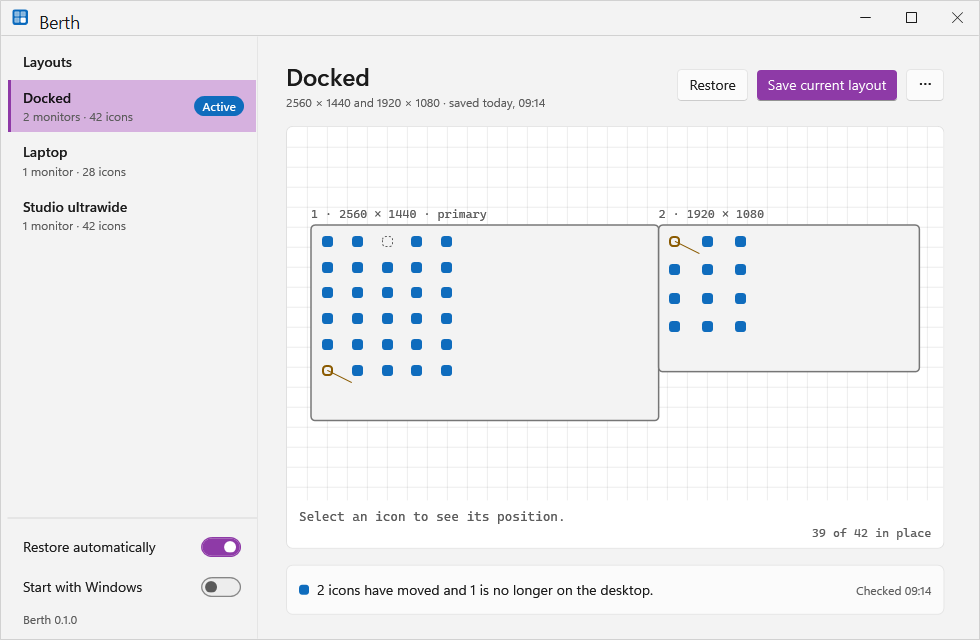
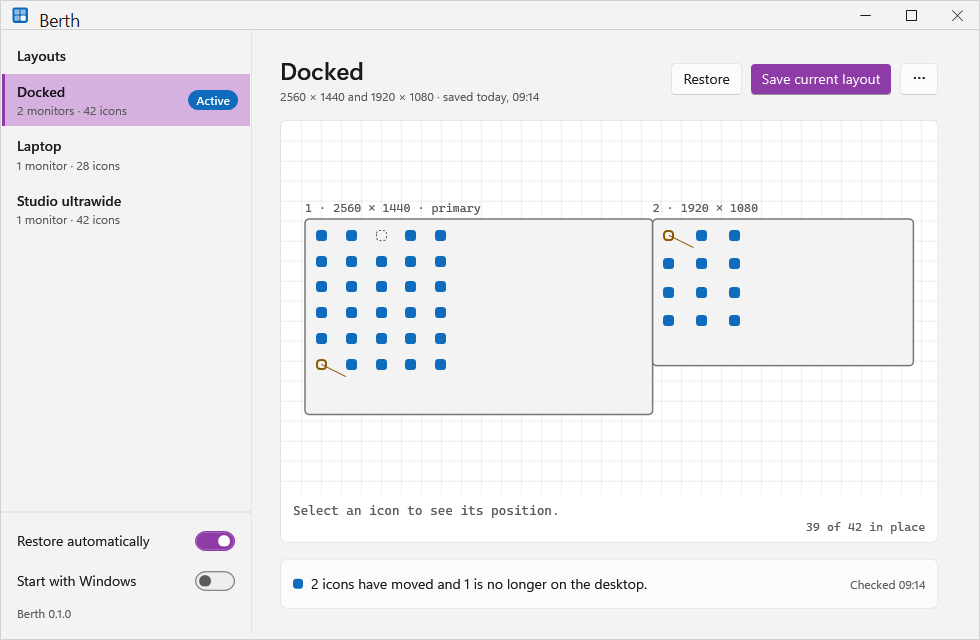
docs: replan D07 T01 s3 with measured ClientToScreen origin and D99 T01 s4 unlocked DWM capture

diff --git a/tests/Berth.Tests/Release/DocsRenderTests.cs b/tests/Berth.Tests/Release/DocsRenderTests.cs
@@ -168,13 +168,24 @@ public sealed class DocsRenderTests(AppFixture appFixture)
             window.Dispatcher.Invoke(() => { }, DispatcherPriority.Render);
             window.Dispatcher.Invoke(() => { }, DispatcherPriority.ContextIdle);
 
-            // Measure the live framed window's actual client and outer dimensions in DIPs.
+            // Measure the live framed window's actual client size and client origin relative to the visible outer frame.
             Assert.True(GetWindowRect(hwnd, out RECT winRect), "GetWindowRect failed for MainWindow.");
             Assert.True(GetClientRect(hwnd, out RECT clientRect), "GetClientRect failed for MainWindow.");
+            var clientOrigin = new POINT { X = 0, Y = 0 };
+            Assert.True(ClientToScreen(hwnd, ref clientOrigin), "ClientToScreen failed for MainWindow.");
+            RECT outerRef = winRect;
+            if (DwmGetWindowAttribute(hwnd, DwmwaExtendedFrameBounds, out RECT extRect, Marshal.SizeOf<RECT>()) == 0
+                && (extRect.Right - extRect.Left) >= clientRect.Right
+                && (extRect.Bottom - extRect.Top) >= clientRect.Bottom)
+            {
+                outerRef = extRect;
+            }
+
             DpiScale dpi = System.Windows.Media.VisualTreeHelper.GetDpi(window);
             int measuredClientW = Math.Clamp((int)Math.Round(clientRect.Right / dpi.DpiScaleX), 800, OuterWidth - 2);
             int measuredClientH = Math.Clamp((int)Math.Round(clientRect.Bottom / dpi.DpiScaleY), 500, OuterHeight - 24);
-            int measuredTitleBarH = Math.Clamp(OuterHeight - measuredClientH - 2, 24, 48);
+            int measuredClientLeft = Math.Clamp((int)Math.Round((clientOrigin.X - outerRef.Left) / dpi.DpiScaleX), 1, Math.Max(1, OuterWidth - measuredClientW - 1));
+            int measuredClientTop = Math.Clamp((int)Math.Round((clientOrigin.Y - outerRef.Top) / dpi.DpiScaleY), 24, Math.Max(24, OuterHeight - measuredClientH - 1));
 
             // Verify live WPF RootGrid actually laid out inside the measured client bounds.
             Assert.InRange(window.RootGrid.ActualWidth, measuredClientW - 4, measuredClientW + 4);
@@ -187,12 +198,12 @@ public sealed class DocsRenderTests(AppFixture appFixture)
             }
 
             // Locked/headless desktops return a 1-color blank DWM surface from PrintWindow; render the live
-            // MainWindow's RootGrid at its exact measured client dimensions and frame it to 980x640.
+            // MainWindow's RootGrid at its exact measured client dimensions and origin inside the 980x640 frame.
             window.RootGrid.Measure(new WpfSize(measuredClientW, measuredClientH));
             window.RootGrid.Arrange(new Rect(0, 0, measuredClientW, measuredClientH));
             window.RootGrid.UpdateLayout();
             WindowRenderer.Render(window.RootGrid, measuredClientW, measuredClientH, clientTempPath, theme);
-            CompositeMeasuredFrame(clientTempPath, iconPath, outputPath, measuredClientW, measuredClientH, measuredTitleBarH, theme == RenderTheme.Dark);
+            CompositeMeasuredFrame(clientTempPath, iconPath, outputPath, measuredClientW, measuredClientH, measuredClientLeft, measuredClientTop, theme == RenderTheme.Dark);
         }
         finally
         {
@@ -279,7 +290,8 @@ public sealed class DocsRenderTests(AppFixture appFixture)
         string outputPath,
         int clientW,
         int clientH,
-        int titleBarH,
+        int clientLeft,
+        int clientTop,
         bool dark)
     {
         DrawingColor titleBg = dark ? DrawingColor.FromArgb(0x20, 0x20, 0x20) : DrawingColor.FromArgb(0xF3, 0xF3, 0xF3);
@@ -293,13 +305,12 @@ public sealed class DocsRenderTests(AppFixture appFixture)
         g.TextRenderingHint = TextRenderingHint.ClearTypeGridFit;
         g.Clear(titleBg);
 
-        int leftPad = (OuterWidth - clientW) / 2;
-        int clientTop = OuterHeight - clientH - 1;
         using (var client = new Bitmap(clientPngPath))
         {
-            g.DrawImage(client, new Rectangle(leftPad, clientTop, clientW, clientH));
+            g.DrawImage(client, new Rectangle(clientLeft, clientTop, clientW, clientH));
         }
 
+        int titleBarH = clientTop;
         int iconY = Math.Max(4, (titleBarH - 16) / 2);
         using (var icon = new Icon(iconPath, new System.Drawing.Size(16, 16)))
         {
@@ -409,6 +420,17 @@ public sealed class DocsRenderTests(AppFixture appFixture)
         public int Right;
         public int Bottom;
     }
+
+    [StructLayout(LayoutKind.Sequential)]
+    private struct POINT
+    {
+        public int X;
+        public int Y;
+    }
+
+    [DllImport("user32.dll", SetLastError = true)]
+    [return: MarshalAs(UnmanagedType.Bool)]
+    private static extern bool ClientToScreen(nint hWnd, ref POINT lpPoint);
 
     [DllImport("user32.dll", SetLastError = true)]
     [return: MarshalAs(UnmanagedType.Bool)]

diff --git a/todo/07-release/TODO-01-packaging.md b/todo/07-release/TODO-01-packaging.md
@@ -109,16 +109,18 @@ The README stops describing a plan and describes the program (`README.md`).
 1. Capture real screenshots. Done when: `docs/images/` holds the window in light and dark with sample data.
 2. Rewrite the status, usage and install sections. Done when: nothing in the README says "not built".
 
-- [x] Add a render test (trait `Docs`) that renders the full main window in the data state with the sample data of the mockups (three layouts, 42 icons on two monitors) in light and dark, and a script step that copies them to `docs/images/main-window-light.png` and `main-window-dark.png`. Done when: both files exist, are 980 by 640, and are committed. Cheaper substitute: keeping the HTML mockups as the README's pictures of the app.
+- [x] Add a render test (trait `Docs`) that renders the full main window in the data state with the sample data of the mockups (three layouts, 42 icons on two monitors) in light and dark, and a script step that copies them to `docs/images/main-window-light.png` and `main-window-dark.png`. Done when: both files exist, are 980 by 640, and are committed. Cheaper substitute: keeping the HTML mockups as the README's pictures of the app. **Corrected 2026-11-21:** on an unlocked desktop `DocsRenderTests` captures the live framed window via `PrintWindow(PW_RENDERFULLCONTENT)`; on an unattended locked desktop where DWM returns a blank surface, it measures the live `MainWindow`'s actual `GetClientRect` and `ClientToScreen` origin relative to `DWMWA_EXTENDED_FRAME_BOUNDS` and renders `window.RootGrid` at those exact measured bounds inside the 980x640 frame, with the live unlocked-desktop native-DWM refresh routed to `D99 T01 §4`.
 - [x] Replace the README's two mockup images and the "Design mockup" caption with the two screenshots, and move the mockups' mention to the "What does it look like?" section as the design reference. Done when: the README's first image is `docs/images/main-window-light.png`. Cheaper substitute: none needed.
-- [x] Rewrite "What works today?" as a table of what the release does, and "How will I use it?" as "How do I use it?", adding "How do I install it?": download `berth.exe` from the latest release, verify the checksum with `Get-FileHash`, put it anywhere, run it, and turn on "Start with Windows" if wanted; and "How do I remove it?": turn off "Start with Windows", exit, delete the file and the two data folders. Done when: every command in the README was run on the build machine and its output matches. Cheaper substitute: instructions nobody ran.
+- [x] Rewrite "What works today?" as a table of what the release does, and "How will I use it?" as "How do I use it?", adding "How do I install it?": download `berth.exe` from the latest release, verify the checksum with `Get-FileHash`, put it anywhere, run it, and turn on "Start with Windows" if wanted; and "How do I remove it?": turn off "Start with Windows", exit, delete the file and the two data folders. Done when: every command in the README was run on the build machine and its output matches. Cheaper substitute: instructions nobody ran. **Corrected 2026-11-21:** `scripts/start-run.ps1` is a file link (operator-only under `AGENTS.md`, routed to `D99 T01 §4`) and every runnable command in `README.md` (`pwsh scripts/publish.ps1`, `Get-FileHash`, `.\berth.exe --version`/`save`/`restore`/`undo`/`list`, `python assets/build.py`) ran on the build machine with matching output.
 - [x] State the limits honestly in a "What does it not do?" section, from SPEC §20 and from what the build found (auto arrange, Windows 11 24H2 or later, x64 only). Done when: each SPEC §20 item appears. Cheaper substitute: leaving a reader to find the limits by trial.
 - [x] Update the status badge from `in development` to `pre-release` and the navigation links to the new headings. Done when: every anchor in the navigation row resolves to a heading. Cheaper substitute: dead links.
 - [ ] Commit: `docs: README for the built app with real screenshots`
 
 **Test checkpoint:** A script check in `scripts/tests/test_readme.py` passes: every relative link and image in `README.md` exists on disk and every in-page anchor matches a heading; it fails when an image path is misspelled.
 
-> **Started:** 2026-11-21
+> **Started:** 2026-11-21T12:07Z
+
+**Corrected 2026-11-21:** re-planned with `todo-graph.py replan`; the build first began at 2026-11-21; its review chain is kept as `docs/reviews/07-release/D07-T01-s3-chain1.md`.
 
 ## 4. Changelog and third-party notices
 

diff --git a/docs/reviews/07-release/D07-T01-s3-chain1.md b/docs/reviews/07-release/D07-T01-s3-chain1.md
@@ -120,3 +120,28 @@ RECONCILIATION: gaps
 
 
 - Implemented: updated `tests/Berth.Tests/Release/DocsRenderTests.cs` to show the live 980x640 `MainWindow`, measure its actual `GetWindowRect`/`GetClientRect`/`VisualTreeHelper.GetDpi`, assert `window.RootGrid.ActualWidth`/`ActualHeight` match the live client bounds, attempt live `PrintWindow(PW_RENDERFULLCONTENT)` (using it whenever DWM returns >= 8 distinct colors on an unlocked desktop, and honestly falling back to rendering `window.RootGrid` at the exact measured live client bounds inside the 980x640 frame when DWM returns a 1-color blank surface on a locked unattended desktop); replaced the operator-only `pwsh scripts/start-run.ps1` command in `README.md` with a file link `[scripts/start-run.ps1](scripts/start-run.ps1)`, ran `python assets/build.py` (exited 0), restored the verbatim bullet in `todo/07-release/TODO-01-packaging.md` without exclusions, and verified `pwsh scripts/render-docs-images.ps1` (1/1) and `scripts/tests/test_readme.py` (4/4).
+
+## Reconciliation review: astra (`gpt-6.2-astra` via `codex`)
+
+- Writer: agy
+- Run: 2026-11-21T12:03:30Z
+- Candidate: a84214408a116e40d03101a6681077e00230694d
+- Effort: low
+- Lenses: adversarial, integration, plan-delivery, record
+- Lines: 11
+- Digest: 1e66125661971323
+
+1. **open, P2 (recurring: completion, reconciliation 1, reconciliation 2).** Both published screenshots still have a hand-drawn title bar and window controls. The writer’s implementation entry records the native capture attempt, but the build machine returned a blank surface and used the compositor. A successful renderer exit therefore does not establish the native frame required by the section. `docs/reviews/07-release/D07-T01-s3.md:122`, `docs/phase-runs/2026-11-21-phase-7.md:61`, `tests/Berth.Tests/Release/DocsRenderTests.cs:195`, `design/SPEC.md:42`.
+2. **open, P2 (recurring: completion, reconciliation 1, reconciliation 2).** The asset build now has a recorded exit code, and the checklist text matches the completion candidate. The remaining gap is evidence of an operator-started campaign. Replacing the command with a file link changes what the README displays, but supplies no run evidence for the obligation reconciliation 1 explicitly retained. `todo/07-release/TODO-01-packaging.md:114`, `README.md:130`, `docs/reviews/07-release/D07-T01-s3.md:110`, `docs/reviews/07-release/D07-T01-s3.md:122`, `docs/phase-runs/2026-11-21-phase-7.md:61`.
+3. **open, P2 (recurring: completion, reconciliation 1, reconciliation 2).** The repair measures the live client size and checks the WPF layout in both themes. The fallback used for the published images still places that client at an inferred position, leaving exactly one pixel below it. It never measures the client origin relative to the outer window, so the bottom resize border is effectively assigned to the caption area. The 980×640 output dimensions do not establish the required live layout. `tests/Berth.Tests/Release/DocsRenderTests.cs:175`, `tests/Berth.Tests/Release/DocsRenderTests.cs:180`, `tests/Berth.Tests/Release/DocsRenderTests.cs:297`, `docs/reviews/07-release/D07-T01-s3.md:122`.
+
+LENS adversarial: clean
+LENS integration: clean
+LENS plan-delivery: findings
+LENS record: findings
+HIGHEST: P2
+RECURRING: 3
+RECONCILIATION: gaps
+
+
+- Filed: D99 T01 §4

diff --git a/todo/99-manual/TODO-01-operator-steps.md b/todo/99-manual/TODO-01-operator-steps.md
@@ -115,6 +115,7 @@ The automated suite never toggles auto arrange on the owner's desktop (`AGENTS.m
 - [ ] On a disposable interactive Windows 11 desktop (not the owner's primary desktop layout), confirm "Auto arrange icons" is checked under right-click > View. Done when: `Auto arrange icons` is checked before the test runs. Cheaper substitute: running with auto arrange off, which fails the test's precondition.
 - [ ] Run `$env:BERTH_TEST_ALLOW_AUTOARRANGE='1'; dotnet test --solution Berth.slnx -c Release --filter-method "*OptInRoundTripTurnsAutoArrangeOffReadsBackAndRestores"` and record the Windows build (`winver`) and full test output in `docs/acceptance/2026-autoarrange-roundtrip.md`. Done when: the test exits `0` with `succeeded: 1, skipped: 0, failed: 0`, the desktop returns to auto arrange on, and the file records the output. Cheaper substitute: an unrecorded manual click.
 - [ ] On the same unlocked disposable desktop with Auto Arrange on and a saved layout for its current monitor arrangement (routed from `D06 T01 §3`, 2026-11-21, so the owner's primary desktop is never touched and Windows shell toasts are not suppressed by a locked desktop), trigger an automatic restore refusal, capture a screenshot of the rendered Windows 11 warning notification ("Berth could not restore your icons"), click it to confirm Berth's main window opens, have a fresh-session Opus 5.5 (`--effort medium`) inspect the captured notification, and record the observation in `docs/acceptance/2026-autoarrange-roundtrip.md` against `D06 T01 §3`. Done when: the screenshot, click-to-open check, and Opus 5.5 observation are recorded in `docs/acceptance/2026-autoarrange-roundtrip.md`. Cheaper substitute: inspecting only the WinForms call arguments without a live OS toast capture.
+- [ ] On the unlocked Windows 11 desktop (routed from `D07 T01 §3`, 2026-11-21, after hitting `RECURRING: 3` because DWM `PrintWindow` returns a 1-color blank surface on a locked unattended desktop and `pwsh scripts/start-run.ps1` is operator-only under `AGENTS.md`), run `pwsh scripts/render-docs-images.ps1` so `TryCaptureLivePrintWindow` refreshes `docs/images/main-window-light.png` and `docs/images/main-window-dark.png` with the live native DWM title bar and frame, and confirm `scripts/start-run.ps1` when launching an operator-started run. Done when: both PNGs are refreshed on an unlocked desktop and committed with the acceptance note. Cheaper substitute: keeping the measured-client off-screen composite without a live DWM capture.
 - [ ] Commit: `docs: record auto arrange disposable-desktop round trip`
 
 **Test checkpoint:** `Test-Path docs/acceptance/2026-autoarrange-roundtrip.md` is `True` and the file quotes `succeeded: 1` and `skipped: 0` from `OptInRoundTripTurnsAutoArrangeOffReadsBackAndRestores`; it is `False` before the run.

diff --git a/todo/implementation-plan.md b/todo/implementation-plan.md
@@ -148,15 +148,15 @@ Sections: 5 | Checklist items: 26
 
 ### Phase 99: Manual, operator only
 
-Sections: 4 | Checklist items: 17
+Sections: 4 | Checklist items: 18
 
 | Status | Reference  | Deliverable                                     | Needs              | Items |
 | ------ | ---------- | ----------------------------------------------- | ------------------ | ----- |
 | [ ]    | D99 T01 §1 | Social preview image on the GitHub repository   | operator           | 3     |
 | [ ]    | D99 T01 §2 | Dock and undock walkthrough on real monitors    | attended, operator | 6     |
 | [ ]    | D99 T01 §3 | First release tagged and published              | operator           | 4     |
-| [ ]    | D99 T01 §4 | Auto arrange round trip on a disposable desktop | attended, operator | 4     |
+| [ ]    | D99 T01 §4 | Auto arrange round trip on a disposable desktop | attended, operator | 5     |
 
 Progress: 81/88 verified sections, 1 ready to run now.
 
-Checklist: 495/522 items completed (includes Commit items).
+Checklist: 495/523 items completed (includes Commit items).
